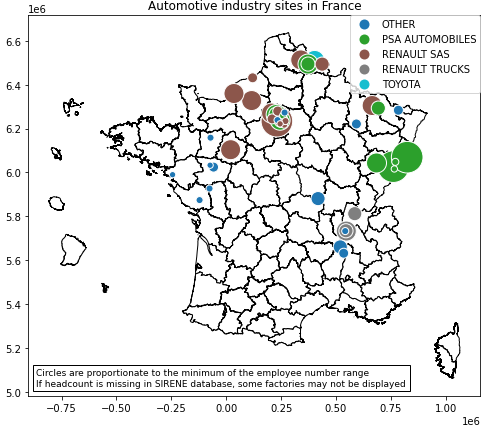
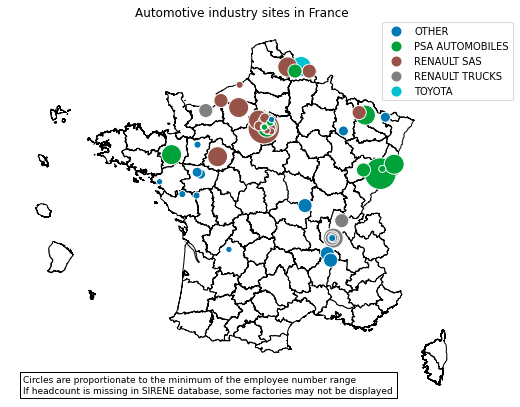
automotive industry example back
Former-commit-id: a463614e5dccf730c56c4b03d6d6444454bd280d

diff --git a/docs/examples.rst b/docs/examples.rst
@@ -23,3 +23,4 @@ Examples
    examples/example_rp_logement_2017.ipynb
    examples/example_marie_firstname.ipynb
    examples/example_doctors_idf.ipynb
+   examples/example_automotive_industry_sites.ipynb
